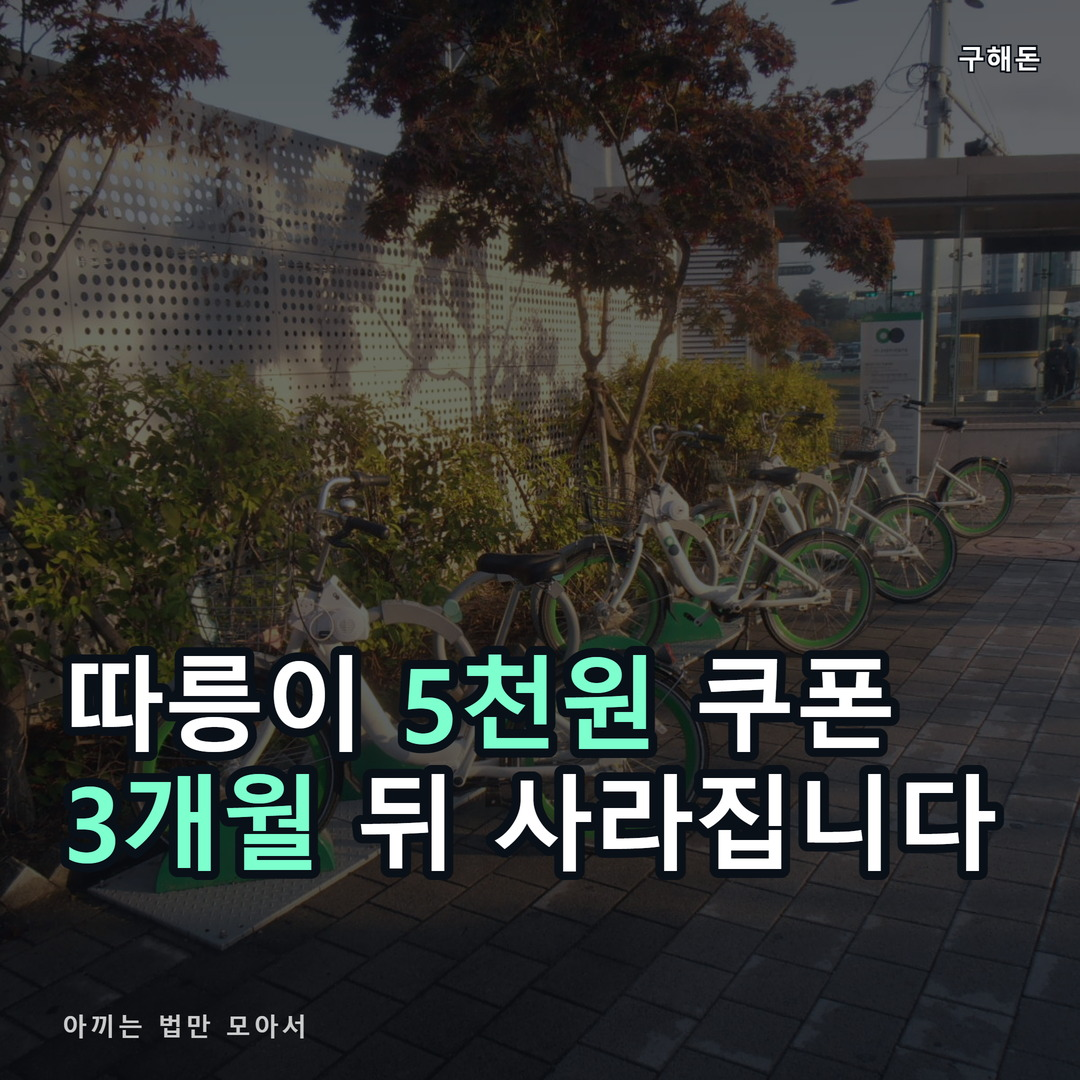
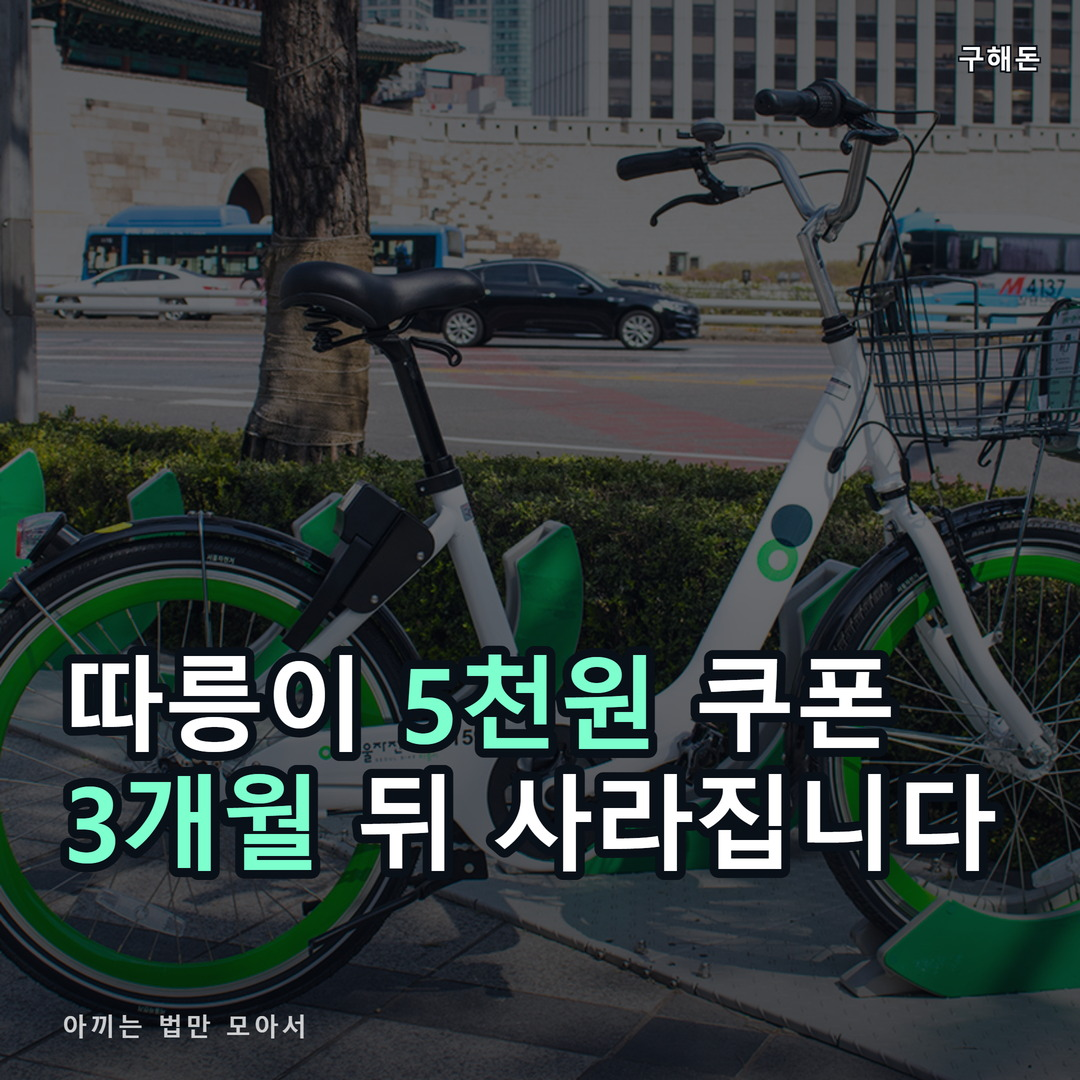
fix: 썸네일은 클로즈업, 본문 카드는 전경 — 1·2번 맞바꿈
120px로 줄어드는 썸네일에 대여소 전경을 쓰니 초록 얼룩으로 뭉개졌다.
자전거 한 대 클로즈업으로 바꾸니 즉시 식별된다. 전경은 본문 카드로 내림.
운영 매뉴얼 3-3절에 기준 표와 120px 판정법 추가.

diff --git a/_engine/HANDOFF_스포크_운영.md b/_engine/HANDOFF_스포크_운영.md
@@ -181,8 +181,30 @@ python _engine/source_photo.py 따릉이 --general "public bicycle sharing" --sl
   **뉴스 보도사진 무단 전재는 금지.**
 - 소싱 후 **반드시 눈으로 확인**한다. 주제 부적합·타 브랜드 오인 컷을 뺀다.
 - `.gitignore` 가 `assets/photos/*` 를 무시하므로 확정한 것만 `git add -f`.
-- 썸네일용은 **피사체가 위쪽~가운데** 있는 컷을 고른다. 하단은 카피가 덮는다.
 - 카테고리당 5~6장 쌓아두고 순환한다. 같은 사진이 3일 연속 나오면 눈이 지나친다.
+
+**⭐ 썸네일 배경과 본문 카드 배경은 고르는 기준이 정반대다 (2026-08-10 확정)**
+
+같은 따릉이 사진이라도 어디에 쓰느냐에 따라 맞고 틀리고가 갈린다.
+
+| | 썸네일 (1번) | 본문 실사카드 (2번) |
+|---|---|---|
+| 보이는 크기 | **120px** — 손톱만 하다 | 화면 폭 전체 |
+| 골라야 할 컷 | **피사체 하나가 화면을 채우는 클로즈업** | 전경·상황 컷도 괜찮다 |
+| 금지 | 원경·전경샷 (대여소 전체, 거리 풍경) | — |
+| 이유 | 작은 요소 여러 개는 뭉개져서 초록 얼룩이 된다 | 크게 보므로 디테일이 오히려 산다 |
+
+실패 사례: 따릉이 **대여소 전경**을 썸네일에 썼더니 120px에서 자전거가 아니라
+초록색 덩어리로 보였다. **자전거 한 대 클로즈업**으로 바꾸니 즉시 판정 가능해졌다.
+같은 사진을 본문 카드로 내리니 거기서는 오히려 잘 맞았다.
+
+> 인스타 v13에서 "본문 슬라이드에 깔린 34~54px 불릿 3줄이 안 읽힌다"고 확정한 것과
+> 같은 원리다. **작은 화면에서는 요소를 줄이고 하나를 키운다.**
+
+**판정법 (필수)**: 렌더 후 **120px로 축소해서 눈으로 본다.**
+이 크기에서 (1) 두 줄 카피가 읽히고 (2) 피사체가 뭔지 식별되면 통과.
+빌드가 `_썸네일_실제크기.jpg` 를 같이 뽑으므로 그걸 보면 된다.
+둘 중 하나라도 안 되면 사진을 바꾸거나 `dim` 을 올린다.
 
 **dim 기준**: 사진이 밝고 복잡하면 `0.5~0.6`, 원래 어두우면 `0.3~0.4`.
 글자가 안 읽히면 폰트를 줄이지 말고 **dim 을 올린다** (가독성 > 사진 선명도).
